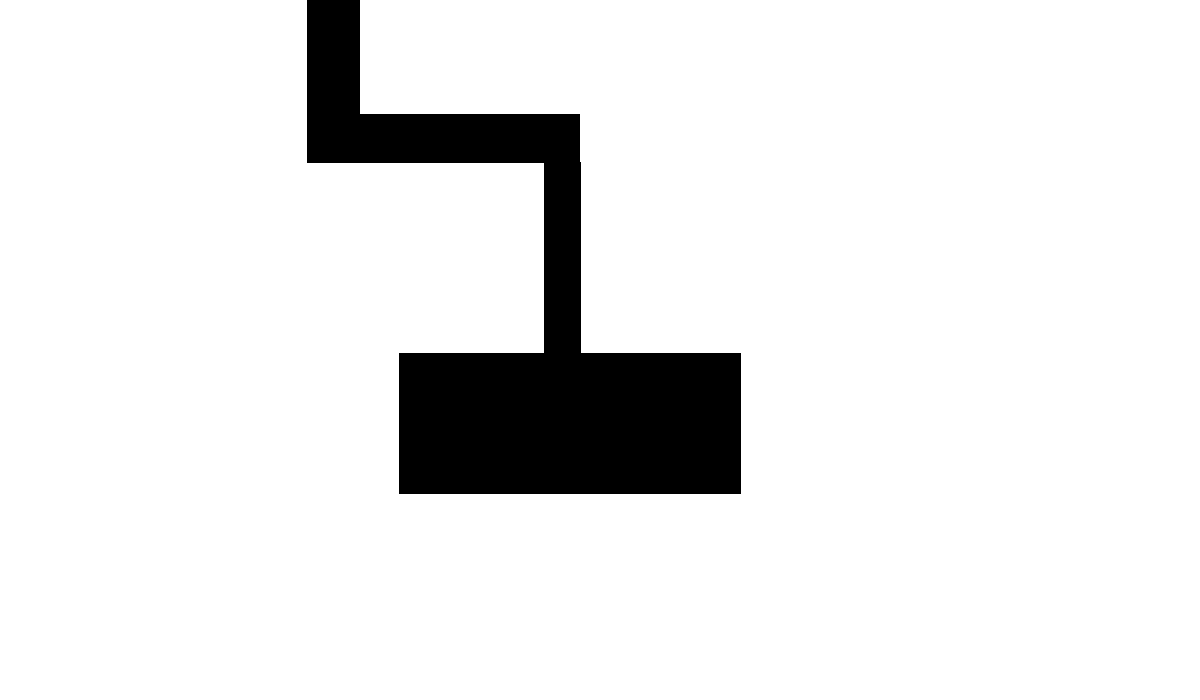
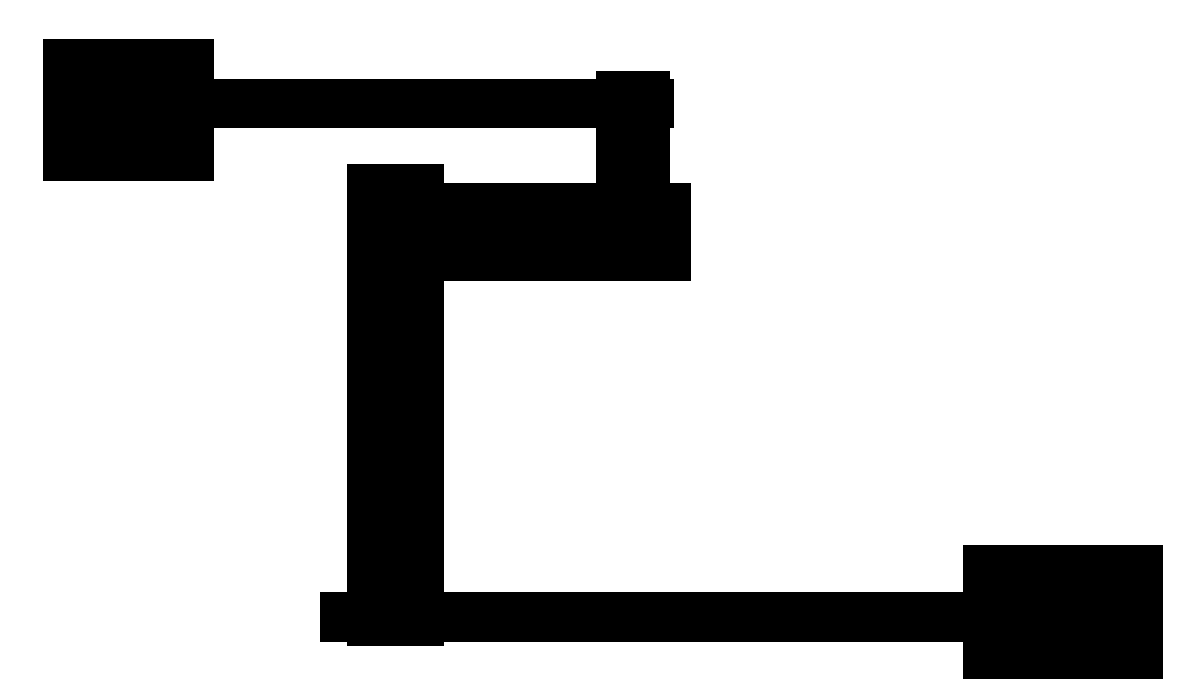
terminada estructutra de laberinto
faltan hacer laberintos con el formato que queramos que tengan (posicion de la casilla de salida y llegada definitiva)
y la animacion de la casilla de llegada

Changed region(s): [[0.0308, 0.0, 0.9867, 0.99]]

diff --git a/minigamble/src/minigamble/Game3.java b/minigamble/src/minigamble/Game3.java
@@ -11,6 +11,8 @@ import java.awt.Robot;
 import java.awt.event.MouseEvent;
 import java.awt.event.MouseListener;
 import java.awt.event.MouseMotionListener;
+import java.awt.event.WindowEvent;
+import java.awt.event.WindowListener;
 import java.io.File;
 import java.io.IOException;
 import java.util.ArrayList;
@@ -23,6 +25,8 @@ import javax.sound.sampled.AudioSystem;
 import javax.sound.sampled.Clip;
 import javax.swing.ImageIcon;
 
+import minigamble.Game.ESTADO;
+
 public class Game3 implements MouseListener , MouseMotionListener {
 
 	private Image lab1Img;
@@ -30,6 +34,8 @@ public class Game3 implements MouseListener , MouseMotionListener {
 	
 	private Image lab2Img;
 	private ImageIcon lab2Icon;
+	private Image endingImg;
+	private ImageIcon endingIcon;
 	
 	private Image bStartIMG_True;
 	private Image bStartIMG_False;
@@ -40,8 +46,10 @@ public class Game3 implements MouseListener , MouseMotionListener {
 	private boolean bStart_state = false;
 	
 	private Font customFontBot;
+	private Font customFontFin;
 	
-	
+	private int Mox;
+	private int Moy;
 	private int mox;				//Posicion en la que se presiona el raton
 	private int moy;
 	private int mdx;
@@ -53,9 +61,13 @@ public class Game3 implements MouseListener , MouseMotionListener {
 	
 	private Color pathColor;
 	
+	private int rNow;
+	private int gNow;
+	private int bNow;
 	
 	private ArrayList <Laberinto> allLabs = new ArrayList<Laberinto>();
 	private Laberinto thisLab;
+	
 	
 	private int start = 1;
 	
@@ -71,7 +83,7 @@ public class Game3 implements MouseListener , MouseMotionListener {
 		
 		lab1Icon = new ImageIcon( Game.class.getResource("multimedia/laberintoPrueba.png").toURI().toURL() );
 		lab2Icon = new ImageIcon( Game.class.getResource("multimedia/laberintoPrueba2.png").toURI().toURL() );
-		
+		endingIcon = new ImageIcon( Game.class.getResource("multimedia/endLabirynth.png").toURI().toURL() );
 		
 		} catch (Exception e1) {
 			e1.printStackTrace();
@@ -81,11 +93,16 @@ public class Game3 implements MouseListener , MouseMotionListener {
 			customFontBot = Font.createFont(Font.TRUETYPE_FONT, Inicio.class.getResourceAsStream("fuentes/fuenteBot.ttf"));
 			customFontBot=customFontBot.deriveFont(Font.PLAIN,20);
 		} catch (FontFormatException | IOException e) {
-			// TODO Auto-generated catch block
 			e.printStackTrace();
 			System.out.println("Error con la fuente Boton");
 		}
 		
+		try {   
+			customFontFin = Font.createFont(Font.TRUETYPE_FONT, Inicio.class.getResourceAsStream("fuentes/fuente.ttf"));
+			customFontFin = customFontFin.deriveFont(Font.PLAIN,100);				
+		}catch(Exception e){	
+			System.out.println("Problema con la fuente Minigamble");
+		}
 		
 		bStartIMG_True = bStart_true.getImage();
 		bStartIMG_False = bStart_false.getImage();
@@ -93,9 +110,11 @@ public class Game3 implements MouseListener , MouseMotionListener {
 		
 		lab1Img = lab1Icon.getImage();
 		lab2Img = lab2Icon.getImage();
+		endingImg = endingIcon.getImage();
+		
 		
 		Laberinto lab1 = new Laberinto(lab1Img, 001 );
-		Laberinto lab2 = new Laberinto(lab1Img, 002 );
+		Laberinto lab2 = new Laberinto(lab2Img, 002 );
 
 		
 		allLabs.add(lab1);
@@ -112,24 +131,12 @@ public class Game3 implements MouseListener , MouseMotionListener {
 		
 	}
 	
-		  
-
 	
 	public Laberinto getRandom( ArrayList<Laberinto> array) {
 	    int rnd = new Random().nextInt(array.size());
-	    return array.get(rnd);
+	    return array.get(1);
 	}
 	
-	
-	private void delayMS(int n) {
-		try {
-			TimeUnit.MILLISECONDS.sleep(n);
-		} catch (InterruptedException b) {
-			// TODO Auto-generated catch block
-			b.printStackTrace();
-		}
-		
-	}
 	
 	public boolean mouseOver(int mx, int my, int x, int y, int width, int heigth) {   // devuelve true si el raton ha sido presionado dentro de un cuadrado 
 		
@@ -151,15 +158,13 @@ public class Game3 implements MouseListener , MouseMotionListener {
 			mox = e.getX();	// guarda la posicion en la que se presiona
 			moy = e.getY();
 			
-//			System.out.println(Game.this.getX());
-//			System.out.println(Game.this.getY());
 			
-			String filePath = new File("").getAbsolutePath();				// Ruta hasta el proyecto
-			String s1_filePath = filePath.concat("/minigamble/src/minigamble/sonido/click1.wav");	//Continuación de la ruta hasta el archivo de audio 1
+			String filePath = new File("").getAbsolutePath();				
+			String s1_filePath = filePath.concat("/minigamble/src/minigamble/sonido/click1.wav");	
 			
 			
 			
-			if( mouseOver(mox, moy, 500, 290, 190, 50) && start == 1 ){	             // Caso start == 1
+			if( mouseOver(mox, moy, 500, 290, 190, 50) && start == 1 ){	             
 				bStart_state = true;
 				try {																				
 			        Clip sonido = AudioSystem.getClip();
@@ -174,6 +179,7 @@ public class Game3 implements MouseListener , MouseMotionListener {
 		}
 	}
 
+	
 	@Override
 	public void mouseReleased(MouseEvent e) {
 		if(Game.estadoJuego == Game.ESTADO.Game3) {
@@ -194,34 +200,24 @@ public class Game3 implements MouseListener , MouseMotionListener {
 			        }
 					
 					
-				if( mouseOver(mox, moy, 575, 290, 50, 50)){	
+				if( mouseOver(mox, moy, 500, 290, 190, 50)){	
 					
-//					startX = e.getXOnScreen()+500;
-//					startY = e.getYOnScreen()+290;
+
 					
-					startX= Game.ventana.frame.getLocationOnScreen().x+900;
-					startY= Game.ventana.frame.getLocationOnScreen().y+400;
-					
+					startX= Game.ventana.frame.getLocationOnScreen().x+1100;
+					startY= Game.ventana.frame.getLocationOnScreen().y+600;
 					
 					robot.mouseMove(startX, startY);
 					
 					start=2;
-					
-					pathColor=robot.getPixelColor(startX, startY);
-					
-				
-					
-					
+															
 				}
 				
 				bStart_state = false;
 				}
 							
 			}
-			
-			
-			
-			
+								
 		}
 	}
 	
@@ -231,8 +227,20 @@ public class Game3 implements MouseListener , MouseMotionListener {
 
 	@Override
 	public void mouseEntered(MouseEvent e) {
+		if(Game.estadoJuego == ESTADO.Game3) {
+			
+			if(start==2) {
+			
+				startX= Game.ventana.frame.getLocationOnScreen().x+1100;
+				startY= Game.ventana.frame.getLocationOnScreen().y+600;
+				
+				robot.mouseMove(startX, startY);
+			}
+		}
+		
 	}
 
+	
 	@Override
 	public void mouseExited(MouseEvent e) {
 	}
@@ -241,38 +249,42 @@ public class Game3 implements MouseListener , MouseMotionListener {
 	public void mouseMoved(MouseEvent e) {
 		if(Game.estadoJuego == Game.ESTADO.Game3 ) {
 			if(start==2) {
-				mdx = e.getXOnScreen();
-				mdy = e.getYOnScreen();
+					
+				Mox = e.getXOnScreen();	
+				Moy = e.getYOnScreen();
+				mox = e.getX();
+				moy = e.getY();
 				
-				if(pathColor.getRGB() != robot.getPixelColor(mdx, mdy).getRGB()) {
-					
-					System.out.println("not in your color");                                                      //--------------------------quitar jst4tests
-					System.out.println("your psition now; x: " +e.getXOnScreen()+" y: "+e.getYOnScreen());
-					System.out.println("color now is"+ robot.getPixelColor(e.getXOnScreen(), e.getYOnScreen()));	
-					System.out.println("Sx: "+startX+ ", Sy:"+startY);
-					System.out.println("Your color is"+ pathColor);
-					
-					
-					robot.mouseMove(startX, startY);
-
+				
+				if(pathColor == null ) {
+					pathColor = robot.getPixelColor(startX, startY);
 				}
 							
+				rNow = robot.getPixelColor(Mox, Moy).getRed();
+				bNow = robot.getPixelColor(Mox, Moy).getBlue();
+				gNow = robot.getPixelColor(Mox, Moy).getGreen();
+
+				
+				if(robot.getPixelColor(Mox, Moy).getRGB() != pathColor.getRGB()) {
+					robot.mouseMove(startX, startY);					
+				} else if ( mouseOver(mox, moy, 40, 40, 200, 200)) {
+					start = 3;	
+				} 
+			}				
 			}
 		}
 			
-	}
+	
 
 	@Override
 	public void mouseDragged(MouseEvent e) {
 		if(Game.estadoJuego == Game.ESTADO.Game3 ) {
-			if(start==1) {
-				
-			
+			if(start==1) {			
 			
 			mdx = e.getX();
 			mdy = e.getY();
 			
-			if( mouseOver(mdx, mdy, 575, 290, 50, 50)== false && start == 1){	// caso start == 1
+			if( mouseOver(mdx, mdy, 500, 290, 190, 50)== false && start == 1){	// caso start == 1
 				bStart_state = false;
 			}
 			
@@ -281,40 +293,41 @@ public class Game3 implements MouseListener , MouseMotionListener {
 	}
 	
 	
+	
+	
 	public void render(Graphics g) {
 		
 		g.setColor(Color.decode("#208b3a"));
 		g.fillRect(0, 0, 1200, 700);
 		
-		if ( start==1) {
-			
+		if(start==1) {
 			g.setFont(customFontBot);
 			g.setColor(Color.BLACK);
 			if(bStart_state == true) {					                   //caso start = 1
-				g.drawImage(bStartIMG_True, 575, 294, 50 , 50 ,   null);
-				//g.drawString("Start", 540, 326);
+				g.drawImage(bStartIMG_True, 500, 294, null);
+				g.drawString("Start", 540, 326);
 			}else {									
-				g.drawImage(bStartIMG_False, 575, 290, 50 , 50,  null);
-				//g.drawString("Start", 547, 322);
+				g.drawImage(bStartIMG_False, 500, 290, null);
+				g.drawString("Start", 547, 322);
 			}
-			
-			
 		}
+		
 		
 		if (start==2) {			
 			g.drawImage(thisLab.getImage() ,0, 0,1190,665,  null);
-			
+			g.drawRect(40, 40, 160, 130);
+		}
+		
+		if(start ==3) {
+			g.drawImage(thisLab.getImage() ,0, 0,1190,665,  null);
+			g.drawImage(endingImg, 40, 40, 160, 130, null);
+			g.setFont(customFontFin);
+			g.drawString("Congrats, you passed!!", 200, 326);
 			
 		}
 	
 	}
 
-
-
-
-
-	
-		
 		
 	
 }

diff --git a/minigamble/src/minigamble/VentanaPrincipal.java b/minigamble/src/minigamble/VentanaPrincipal.java
@@ -59,14 +59,6 @@ public class VentanaPrincipal extends Canvas{
 		
 		game.start();
 		
-		game.addMouseListener(new MouseAdapter() {
-			@Override
-			public void mouseEntered(MouseEvent e) { //se lanza cuando el raton entra en el espacio principal del jframe
-				
-				System.out.println("Entrando");
-			}
-			
-		});
 	}
 
 };
